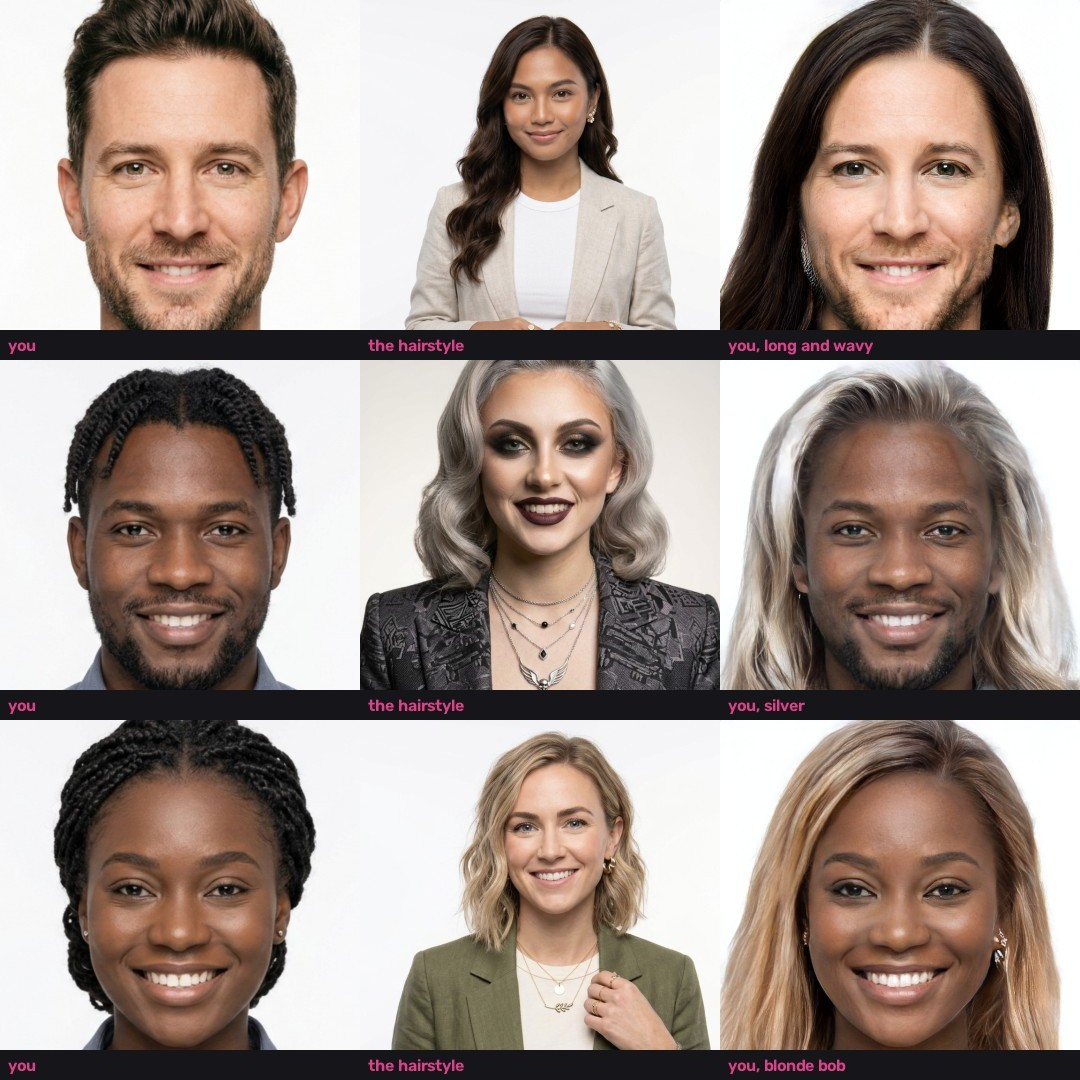
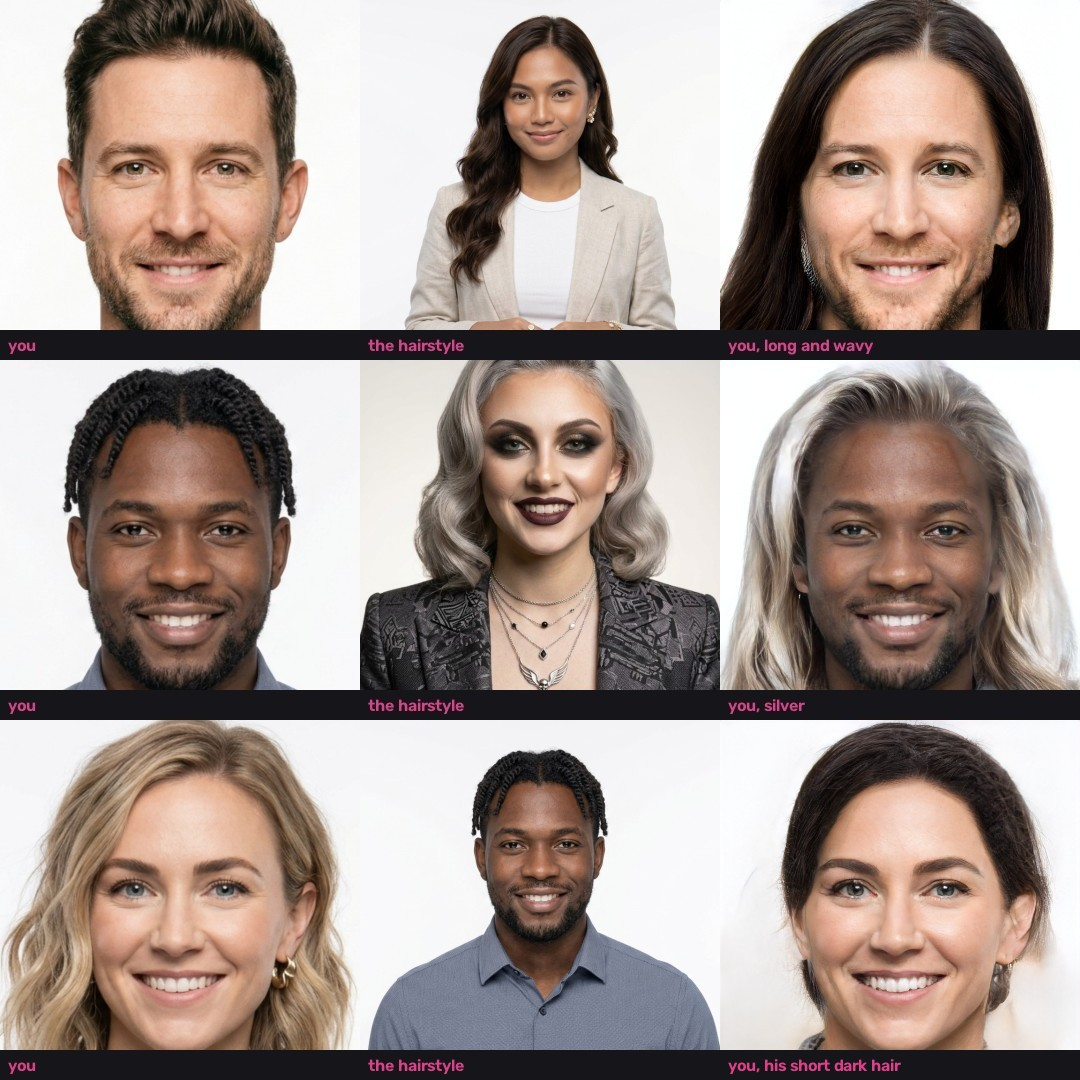
README: where the name comes from; Tonsor: the blonde woman with the short twists; Cosmeta: the face paint references are a stress test

Changed region(s): [[0.0, 0.6417, 1.0, 1.0]]

diff --git a/README.md b/README.md
@@ -84,7 +84,7 @@ On the command line: `run.bat you.jpg hairstyle.jpg -o out.png` (`--colour other
 
 - It knows the hair StyleGAN2 learned from FFHQ's photos. Long, short, wavy, straight, bobs and colours work well.
   Braids, beads, pigtails and other elaborate styles don't carry over: a goth's red braided pigtails came out as
-  loose pinkish blonde hair.
+  loose pinkish blonde hair, and short twists on a woman came out as short dark hair without the twists.
 - The result is the face frame, not the whole photo.
 - Shave suits stubble and short beards; on a full beard it leaves a smudge: use the AI **Clean shaven** for that.
 - Use it on yourself, on generated people, or on people who agreed.
